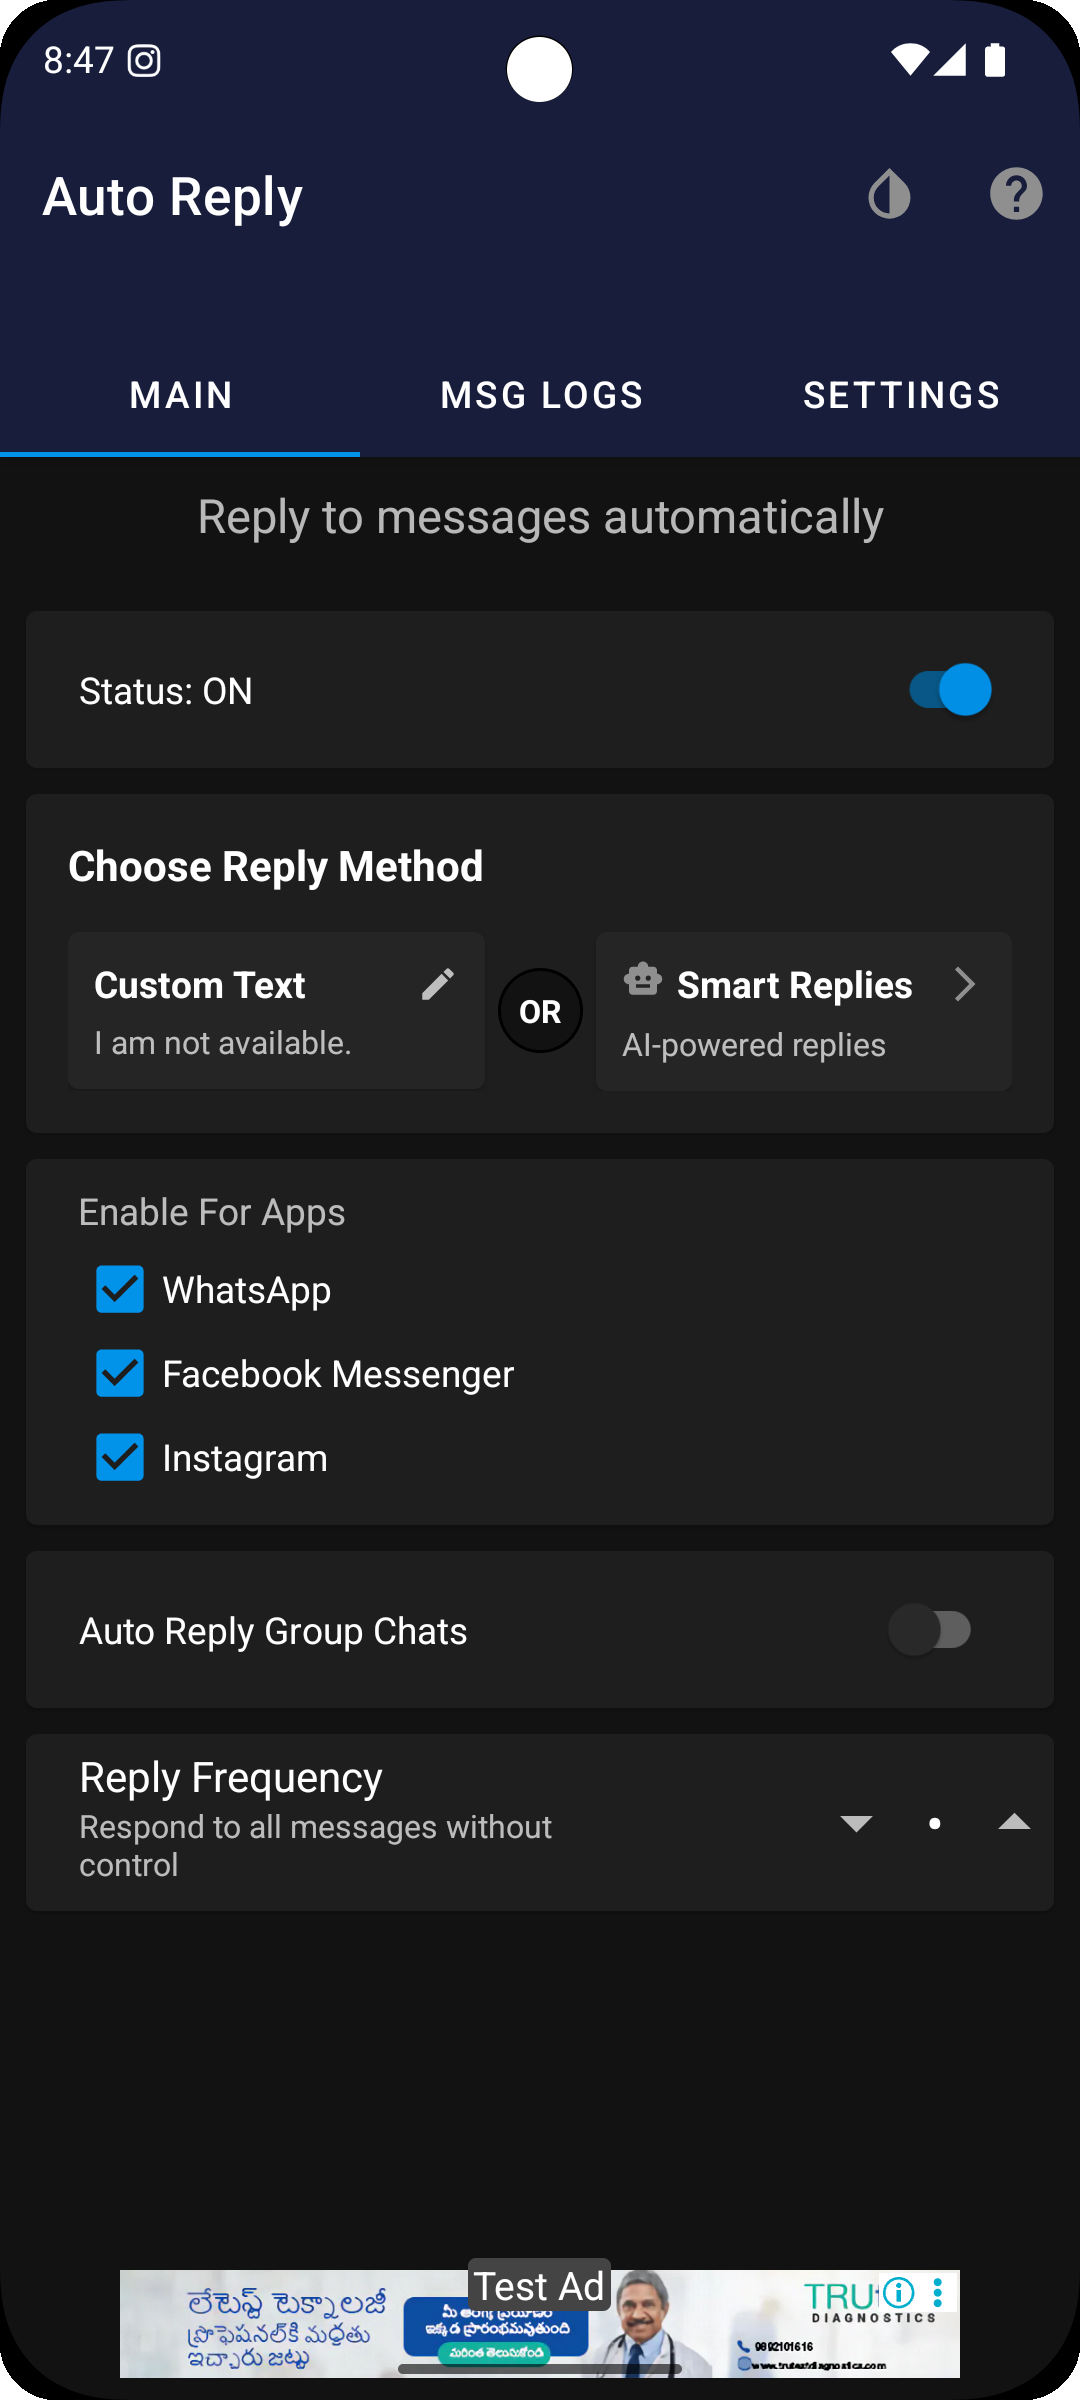
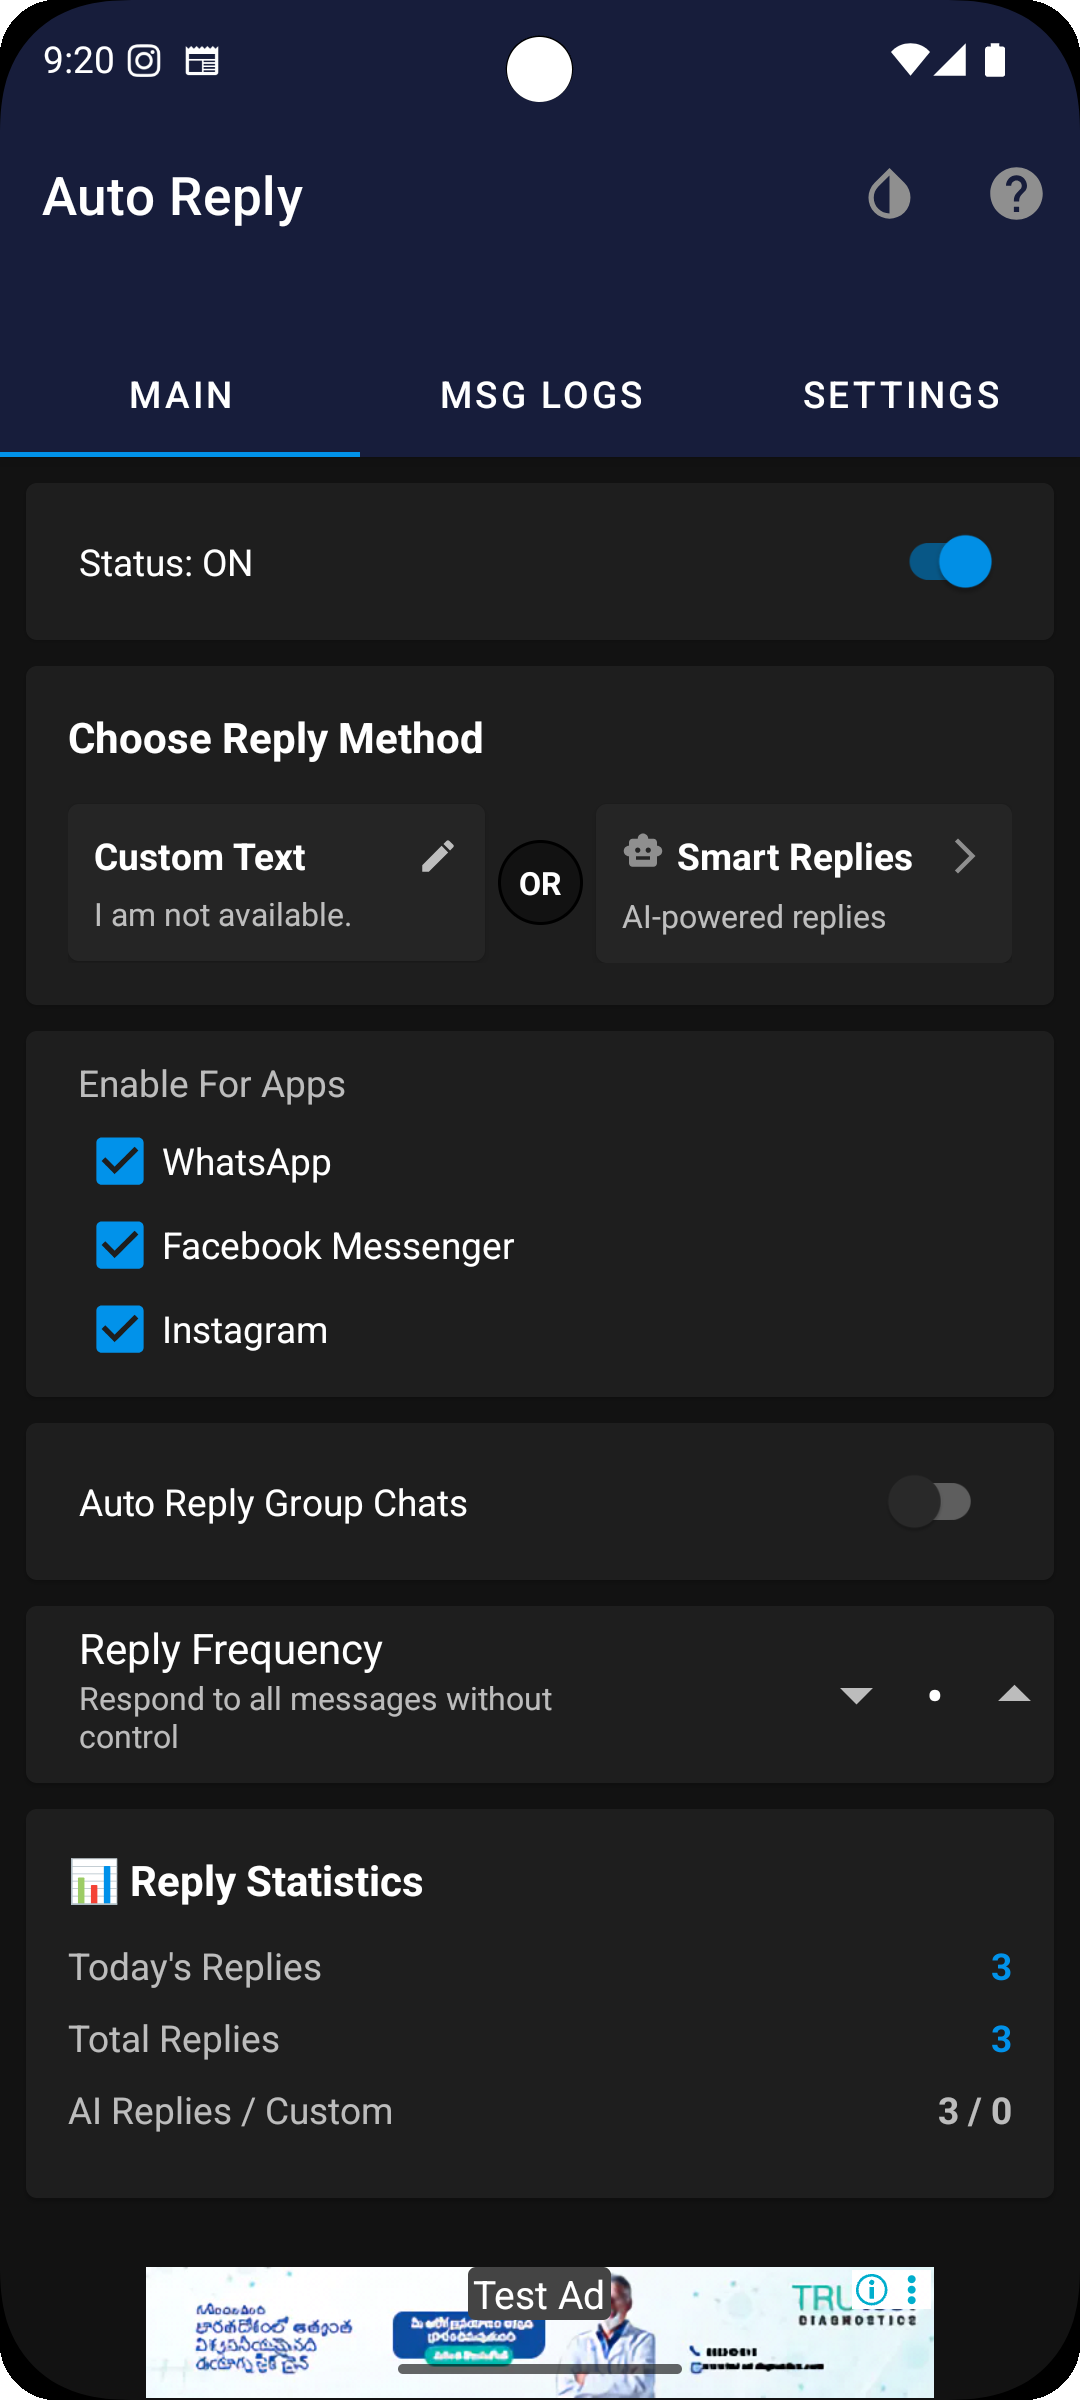
Added Analytics and metrics tracking

diff --git a/app/src/main/java/com/matrix/autoreply/utils/AnalyticsTracker.kt b/app/src/main/java/com/matrix/autoreply/utils/AnalyticsTracker.kt
@@ -1,0 +1,128 @@
+package com.matrix.autoreply.utils
+
+import android.content.Context
+import android.os.Bundle
+import com.google.firebase.analytics.FirebaseAnalytics
+import com.matrix.autoreply.preferences.PreferencesManager
+import java.text.SimpleDateFormat
+import java.util.*
+
+object AnalyticsTracker {
+    
+    private var firebaseAnalytics: FirebaseAnalytics? = null
+    
+    fun initialize(context: Context) {
+        if (firebaseAnalytics == null) {
+            firebaseAnalytics = FirebaseAnalytics.getInstance(context)
+        }
+    }
+    
+    // Track reply sent
+    fun trackReplySent(
+        context: Context,
+        appPackage: String,
+        isAiReply: Boolean,
+        isGroupMessage: Boolean
+    ) {
+        initialize(context)
+        
+        // Log to Firebase
+        val bundle = Bundle().apply {
+            putString("app_package", appPackage)
+            putString("reply_type", if (isAiReply) "ai" else "custom")
+            putBoolean("is_group", isGroupMessage)
+            putString("timestamp", System.currentTimeMillis().toString())
+        }
+        firebaseAnalytics?.logEvent("auto_reply_sent", bundle)
+        
+        // Update local counters
+        val prefsManager = PreferencesManager.getPreferencesInstance(context)
+        prefsManager?.let {
+            it.incrementDailyReplyCount()
+            it.incrementTotalReplyCount()
+            it.incrementAppSpecificCount(appPackage)
+            if (isAiReply) {
+                it.incrementAiReplyCount()
+            } else {
+                it.incrementCustomReplyCount()
+            }
+        }
+    }
+    
+    // Track message received
+    fun trackMessageReceived(
+        context: Context,
+        appPackage: String,
+        isGroupMessage: Boolean
+    ) {
+        initialize(context)
+        
+        val bundle = Bundle().apply {
+            putString("app_package", appPackage)
+            putBoolean("is_group", isGroupMessage)
+        }
+        firebaseAnalytics?.logEvent("message_received", bundle)
+    }
+    
+    // Track AI prompt template selected
+    fun trackPromptTemplateSelected(context: Context, templateId: String) {
+        initialize(context)
+        
+        val bundle = Bundle().apply {
+            putString("template_id", templateId)
+        }
+        firebaseAnalytics?.logEvent("prompt_template_selected", bundle)
+    }
+    
+    // Track AI prompt generated
+    fun trackAiPromptGenerated(context: Context, success: Boolean) {
+        initialize(context)
+        
+        val bundle = Bundle().apply {
+            putBoolean("success", success)
+        }
+        firebaseAnalytics?.logEvent("ai_prompt_generated", bundle)
+    }
+    
+    // Track feature usage
+    fun trackFeatureUsage(context: Context, featureName: String) {
+        initialize(context)
+        
+        val bundle = Bundle().apply {
+            putString("feature_name", featureName)
+        }
+        firebaseAnalytics?.logEvent("feature_used", bundle)
+    }
+    
+    // Track app enabled/disabled
+    fun trackAppToggle(context: Context, enabled: Boolean, appPackage: String) {
+        initialize(context)
+        
+        val bundle = Bundle().apply {
+            putBoolean("enabled", enabled)
+            putString("app_package", appPackage)
+        }
+        firebaseAnalytics?.logEvent("app_toggle", bundle)
+    }
+    
+    // Track AI provider changed
+    fun trackAiProviderChanged(context: Context, provider: String) {
+        initialize(context)
+        
+        val bundle = Bundle().apply {
+            putString("provider", provider)
+        }
+        firebaseAnalytics?.logEvent("ai_provider_changed", bundle)
+    }
+    
+    // Track errors
+    fun trackError(context: Context, errorType: String, errorMessage: String) {
+        initialize(context)
+        
+        val bundle = Bundle().apply {
+            putString("error_type", errorType)
+            putString("error_message", errorMessage)
+        }
+        firebaseAnalytics?.logEvent("app_error", bundle)
+    }
+}

diff --git a/app/src/main/java/com/matrix/autoreply/preferences/PreferencesManager.kt b/app/src/main/java/com/matrix/autoreply/preferences/PreferencesManager.kt
@@ -9,6 +9,7 @@ import com.google.gson.Gson
 import android.content.pm.PackageManager
 import androidx.preference.PreferenceManager
 import com.matrix.autoreply.constants.Constants
+import java.text.SimpleDateFormat
 import java.util.*
 
 class PreferencesManager private constructor(private val thisAppContext: Context) {
@@ -289,6 +290,86 @@ class PreferencesManager private constructor(private val thisAppContext: Context
             editor.putString(KEY_AI_PROMPT_TEMPLATE_ID, templateId)
             editor.apply()
         }
+    
+    // Analytics preferences
+    private val KEY_TOTAL_REPLIES = "analytics_total_replies"
+    private val KEY_DAILY_REPLIES = "analytics_daily_replies"
+    private val KEY_DAILY_DATE = "analytics_daily_date"
+    private val KEY_AI_REPLIES = "analytics_ai_replies"
+    private val KEY_CUSTOM_REPLIES = "analytics_custom_replies"
+    private val KEY_WHATSAPP_COUNT = "analytics_whatsapp_count"
+    private val KEY_MESSENGER_COUNT = "analytics_messenger_count"
+    private val KEY_INSTAGRAM_COUNT = "analytics_instagram_count"
+    
+    fun incrementDailyReplyCount() {
+        val today = getCurrentDateString()
+        val savedDate = _sharedPrefs.getString(KEY_DAILY_DATE, "")
+        
+        if (today != savedDate) {
+            // New day, reset daily counter
+            _sharedPrefs.edit().putInt(KEY_DAILY_REPLIES, 1).putString(KEY_DAILY_DATE, today).apply()
+        } else {
+            val current = _sharedPrefs.getInt(KEY_DAILY_REPLIES, 0)
+            _sharedPrefs.edit().putInt(KEY_DAILY_REPLIES, current + 1).apply()
+        }
+    }
+    
+    fun getDailyReplyCount(): Int {
+        val today = getCurrentDateString()
+        val savedDate = _sharedPrefs.getString(KEY_DAILY_DATE, "")
+        return if (today == savedDate) {
+            _sharedPrefs.getInt(KEY_DAILY_REPLIES, 0)
+        } else {
+            0
+        }
+    }
+    
+    fun incrementTotalReplyCount() {
+        val current = _sharedPrefs.getInt(KEY_TOTAL_REPLIES, 0)
+        _sharedPrefs.edit().putInt(KEY_TOTAL_REPLIES, current + 1).apply()
+    }
+    
+    fun getTotalReplyCount(): Int {
+        return _sharedPrefs.getInt(KEY_TOTAL_REPLIES, 0)
+    }
+    
+    fun incrementAiReplyCount() {
+        val current = _sharedPrefs.getInt(KEY_AI_REPLIES, 0)
+        _sharedPrefs.edit().putInt(KEY_AI_REPLIES, current + 1).apply()
+    }
+    
+    fun getAiReplyCount(): Int {
+        return _sharedPrefs.getInt(KEY_AI_REPLIES, 0)
+    }
+    
+    fun incrementCustomReplyCount() {
+        val current = _sharedPrefs.getInt(KEY_CUSTOM_REPLIES, 0)
+        _sharedPrefs.edit().putInt(KEY_CUSTOM_REPLIES, current + 1).apply()
+    }
+    
+    fun getCustomReplyCount(): Int {
+        return _sharedPrefs.getInt(KEY_CUSTOM_REPLIES, 0)
+    }
+    
+    fun incrementAppSpecificCount(packageName: String) {
+        val key = when (packageName) {
+            "com.whatsapp" -> KEY_WHATSAPP_COUNT
+            "com.facebook.orca" -> KEY_MESSENGER_COUNT
+            "com.instagram.android" -> KEY_INSTAGRAM_COUNT
+            else -> return
+        }
+        val current = _sharedPrefs.getInt(key, 0)
+        _sharedPrefs.edit().putInt(key, current + 1).apply()
+    }
+    
+    fun getWhatsAppCount(): Int = _sharedPrefs.getInt(KEY_WHATSAPP_COUNT, 0)
+    fun getMessengerCount(): Int = _sharedPrefs.getInt(KEY_MESSENGER_COUNT, 0)
+    fun getInstagramCount(): Int = _sharedPrefs.getInt(KEY_INSTAGRAM_COUNT, 0)
+    
+    private fun getCurrentDateString(): String {
+        val dateFormat = SimpleDateFormat("yyyy-MM-dd", Locale.getDefault())
+        return dateFormat.format(Date())
+    }
 
     companion object {
         private var _instance: PreferencesManager? = null

diff --git a/app/src/main/java/com/matrix/autoreply/services/ForegroundNotificationService.kt b/app/src/main/java/com/matrix/autoreply/services/ForegroundNotificationService.kt
@@ -16,6 +16,7 @@ import com.matrix.autoreply.preferences.PreferencesManager
 import com.matrix.autoreply.utils.DbUtils
 import com.matrix.autoreply.utils.NotificationUtils
 import com.matrix.autoreply.utils.AiReplyHandler
+import com.matrix.autoreply.utils.AnalyticsTracker
 
 
 class ForegroundNotificationService : NotificationListenerService() {
@@ -83,20 +84,20 @@ class ForegroundNotificationService : NotificationListenerService() {
         if (preferencesManager.isAiEnabled && preferencesManager.aiApiKey?.isNotEmpty() == true) {
             AiReplyHandler.generateReply(this, incomingMessage, object : AiReplyHandler.AiReplyCallback {
                 override fun onReplyGenerated(reply: String) {
-                    sendActualReply(sbn, pendingIntent, remoteInputs1.toTypedArray(), reply)
+                    sendActualReply(sbn, pendingIntent, remoteInputs1.toTypedArray(), reply, isAiReply = true)
                 }
                 
                 override fun onError(errorMessage: String) {
                     Log.w(TAG, "AI reply failed: $errorMessage, falling back to custom reply")
                     // Fallback to custom reply
                     val customReply = getCustomReply()
-                    sendActualReply(sbn, pendingIntent, remoteInputs1.toTypedArray(), customReply)
+                    sendActualReply(sbn, pendingIntent, remoteInputs1.toTypedArray(), customReply, isAiReply = false)
                 }
             })
         } else {
             // Use custom reply directly
             val customReply = getCustomReply()
-            sendActualReply(sbn, pendingIntent, remoteInputs1.toTypedArray(), customReply)
+            sendActualReply(sbn, pendingIntent, remoteInputs1.toTypedArray(), customReply, isAiReply = false)
         }
     }
     
@@ -109,7 +110,8 @@ class ForegroundNotificationService : NotificationListenerService() {
         sbn: StatusBarNotification, 
         pendingIntent: PendingIntent?, 
         remoteInputs1: Array<RemoteInput>, 
-        replyText: String
+        replyText: String,
+        isAiReply: Boolean = false
     ) {
         val remoteInputs = arrayOfNulls<RemoteInput>(remoteInputs1.size)
         val localIntent = Intent()
@@ -129,6 +131,16 @@ class ForegroundNotificationService : NotificationListenerService() {
                 }
                 dbUtils!!.logReply(sbn, NotificationUtils.getTitle(sbn))
                 pendingIntent.send(this, 0, localIntent)
+                
+                // Track analytics
+                val isGroupMsg = sbn.notification.extras.getBoolean("android.isGroupConversation")
+                AnalyticsTracker.trackReplySent(
+                    applicationContext,
+                    sbn.packageName,
+                    isAiReply,
+                    isGroupMsg
+                )
+                
                 if (PreferencesManager.getPreferencesInstance(this)!!.isShowNotificationEnabled) {
                     sbn.notification?.extras?.getString("android.title")
                         ?.let {

diff --git a/app/src/main/java/com/matrix/autoreply/ui/fragment/PromptSelectorFragment.kt b/app/src/main/java/com/matrix/autoreply/ui/fragment/PromptSelectorFragment.kt
@@ -17,6 +17,7 @@ import com.matrix.autoreply.R
 import com.matrix.autoreply.constants.PromptTemplate
 import com.matrix.autoreply.constants.PromptTemplates
 import com.matrix.autoreply.preferences.PreferencesManager
+import com.matrix.autoreply.utils.AnalyticsTracker
 import com.matrix.autoreply.network.AiService
 import com.matrix.autoreply.network.model.ai.AiMessage
 import com.matrix.autoreply.network.model.ai.AiRequest
@@ -174,11 +175,19 @@ Generate an improved system prompt that incorporates the user's request. Return 
                     if (aiResponse.choices.isNotEmpty()) {
                         val generatedPrompt = aiResponse.choices[0].message.content.trim()
                         customPromptInput.setText(generatedPrompt)
+                        
+                        // Track success
+                        AnalyticsTracker.trackAiPromptGenerated(requireContext(), true)
+                        
                         Toast.makeText(requireContext(), "Prompt generated successfully!", Toast.LENGTH_SHORT).show()
                     } else {
+                        // Track failure
+                        AnalyticsTracker.trackAiPromptGenerated(requireContext(), false)
                         Toast.makeText(requireContext(), "Failed to generate prompt", Toast.LENGTH_SHORT).show()
                     }
                 } else {
+                    // Track failure
+                    AnalyticsTracker.trackAiPromptGenerated(requireContext(), false)
                     Toast.makeText(
                         requireContext(),
                         "AI generation failed. Please check your API key.",
@@ -258,6 +267,9 @@ Generate an improved system prompt that incorporates the user's request. Return 
         // Save to preferences
         preferencesManager.aiPromptTemplateId = selectedTemplateId
         preferencesManager.aiSystemMessage = promptToSave
+        
+        // Track analytics
+        AnalyticsTracker.trackPromptTemplateSelected(requireContext(), selectedTemplateId)
         
         Toast.makeText(
             requireContext(),

diff --git a/app/src/main/java/com/matrix/autoreply/ui/fragment/MainFragment.kt b/app/src/main/java/com/matrix/autoreply/ui/fragment/MainFragment.kt
@@ -57,6 +57,9 @@ class MainFragment : Fragment() {
     private var selectAppsLabel: TextView? = null
     private val supportedAppsCheckboxes: MutableList<MaterialCheckBox> = ArrayList()
     private val supportedAppsDummyViews: MutableList<View> = ArrayList()
+    private var dailyRepliesText: TextView? = null
+    private var totalRepliesText: TextView? = null
+    private var aiVsCustomText: TextView? = null
     private var mActivity: Activity? = null
     private lateinit var notificationListenerUtil: NotificationListenerUtil
     private lateinit var notificationListenerPermissionLauncher: ActivityResultLauncher<Intent>
@@ -100,6 +103,9 @@ class MainFragment : Fragment() {
         timeSelectedTextPreview = binding.timeSelectedText
         imgMinus = binding.imgMinus
         imgPlus = binding.imgPlus
+        dailyRepliesText = binding.dailyRepliesCount
+        totalRepliesText = binding.totalRepliesCount
+        aiVsCustomText = binding.aiVsCustomCount
         handleReplyOptionsCard()
 
         customTextPreview?.text = customRepliesData!!.getTextToSendOrElse(autoReplyTextPlaceholder)
@@ -268,6 +274,17 @@ class MainFragment : Fragment() {
 
         // Set user auto reply text
         customTextPreview!!.text = customRepliesData!!.getTextToSendOrElse(autoReplyTextPlaceholder)
+        
+        // Update analytics
+        updateAnalytics()
+    }
+    
+    private fun updateAnalytics() {
+        dailyRepliesText?.text = preferencesManager?.getDailyReplyCount().toString()
+        totalRepliesText?.text = preferencesManager?.getTotalReplyCount().toString()
+        val aiCount = preferencesManager?.getAiReplyCount() ?: 0
+        val customCount = preferencesManager?.getCustomReplyCount() ?: 0
+        aiVsCustomText?.text = "$aiCount / $customCount"
     }
 
     private fun setSwitchState() {
